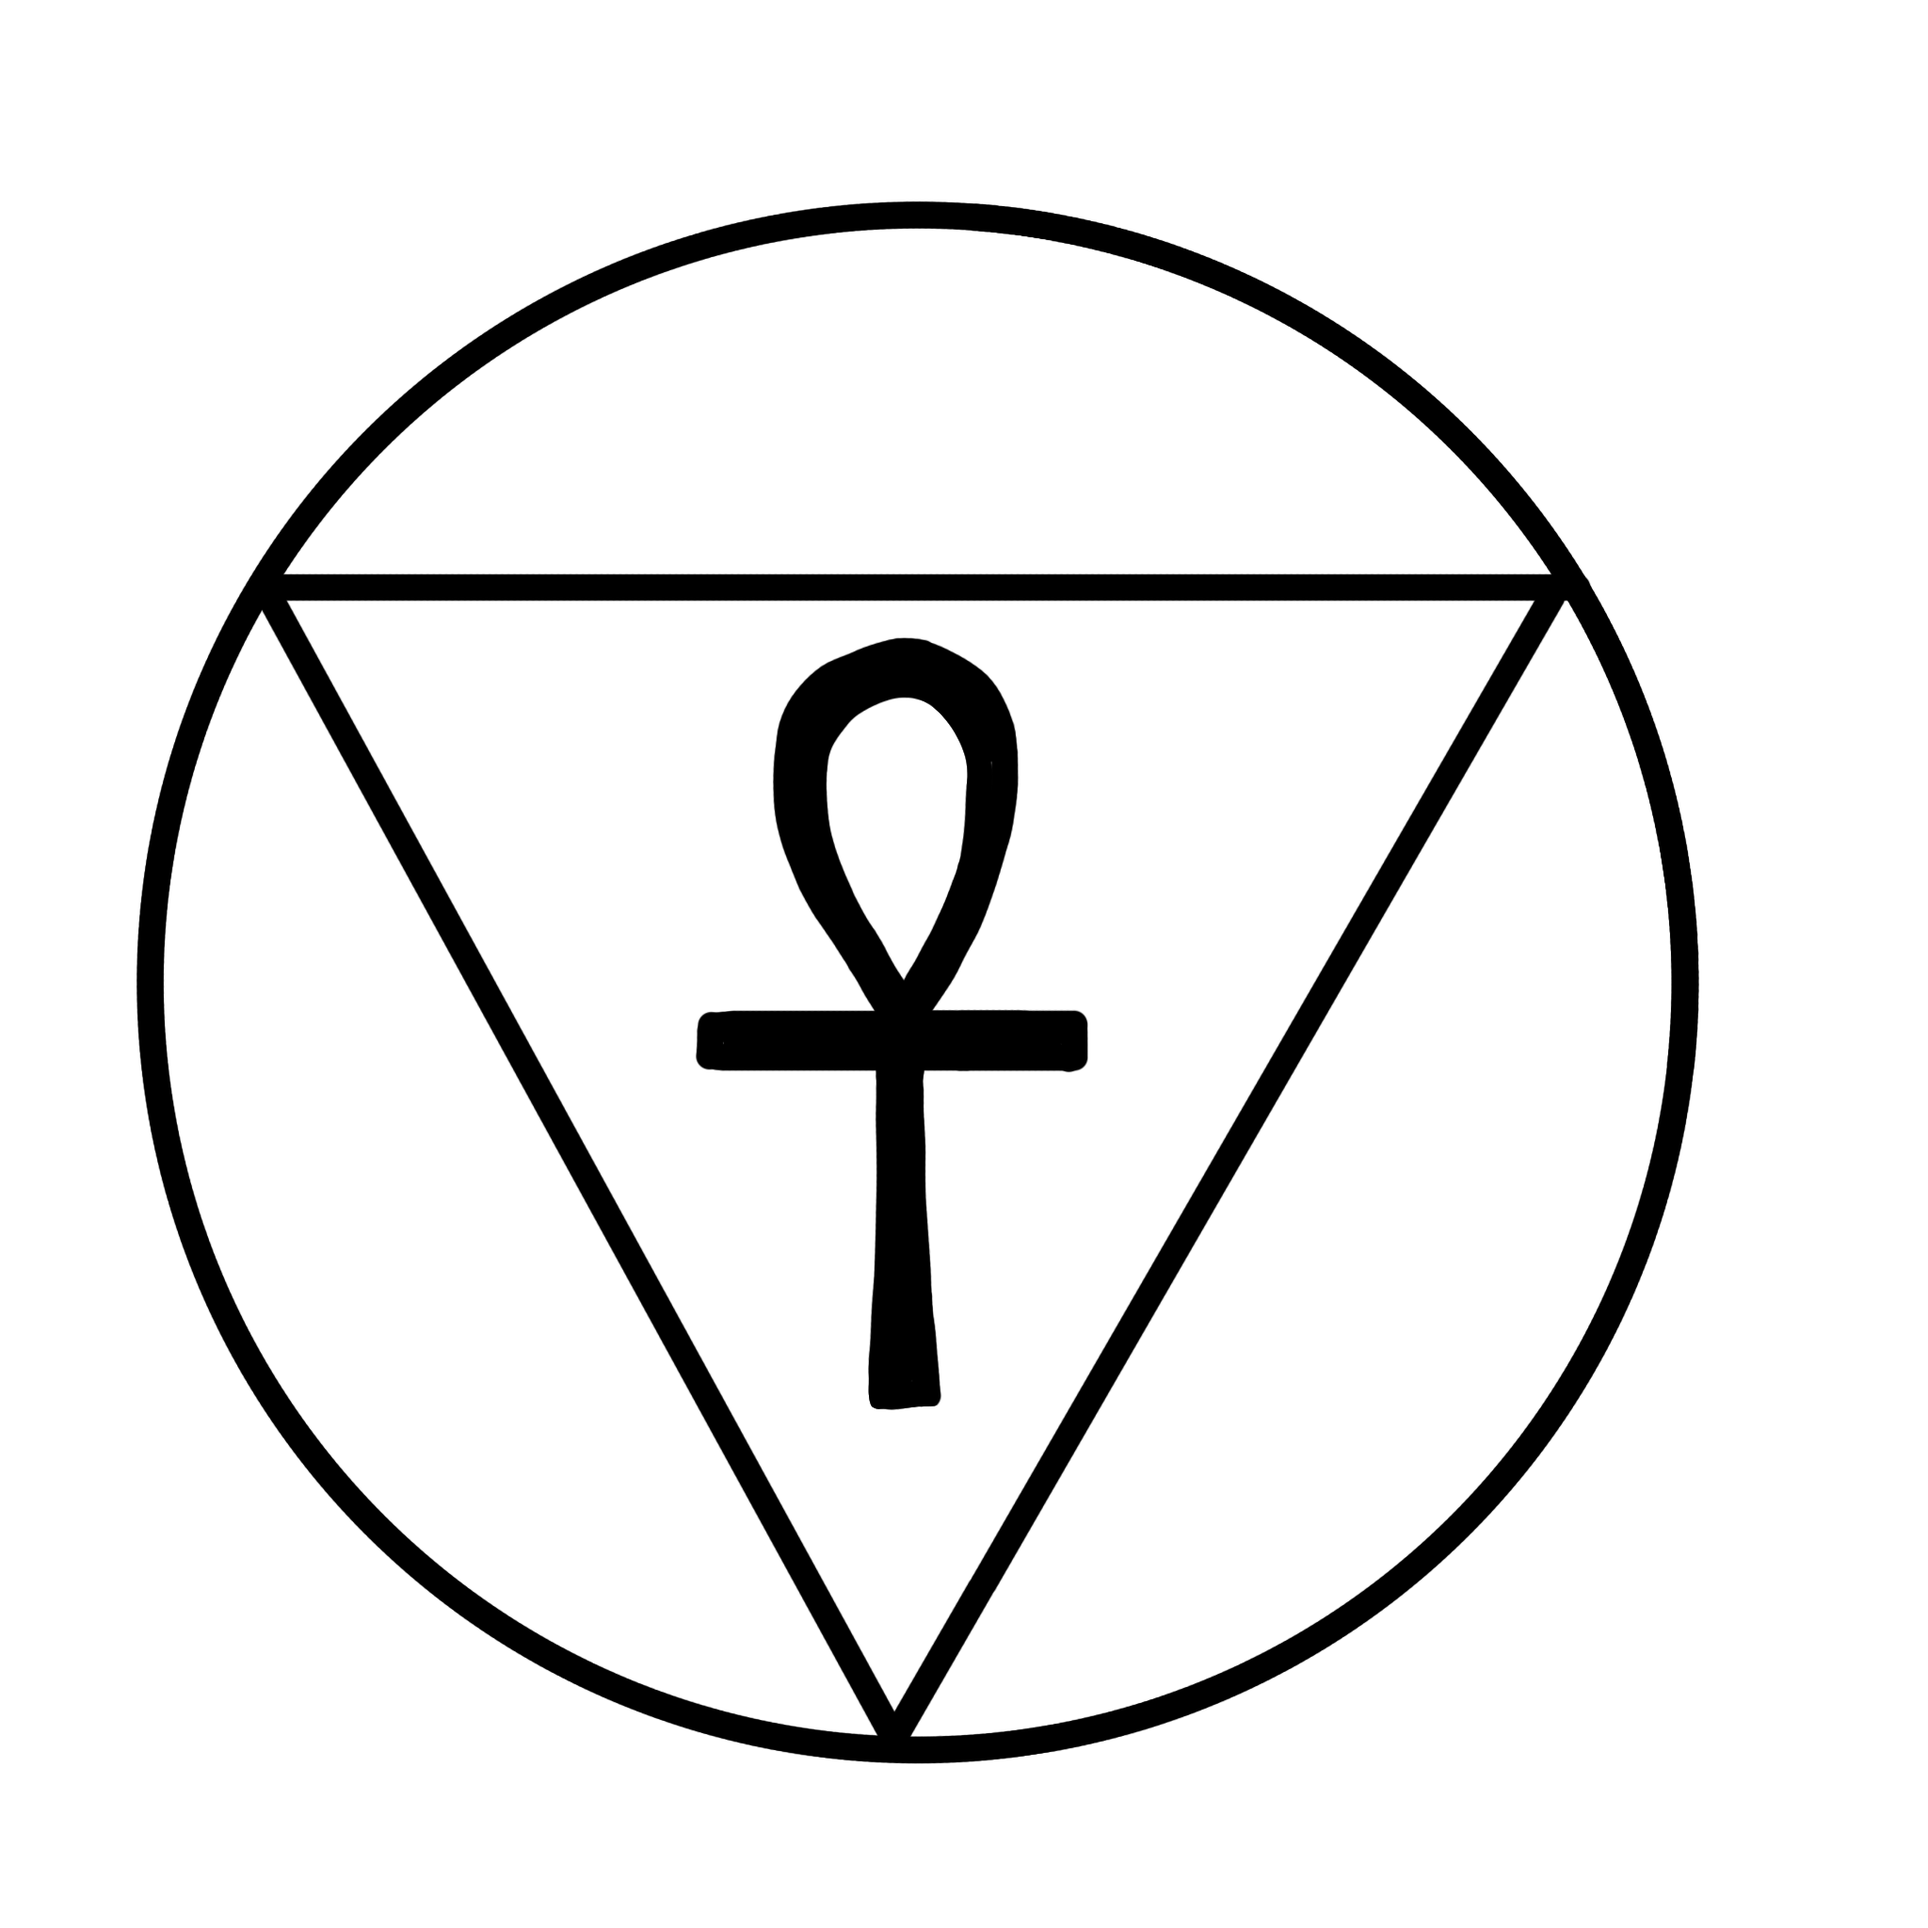
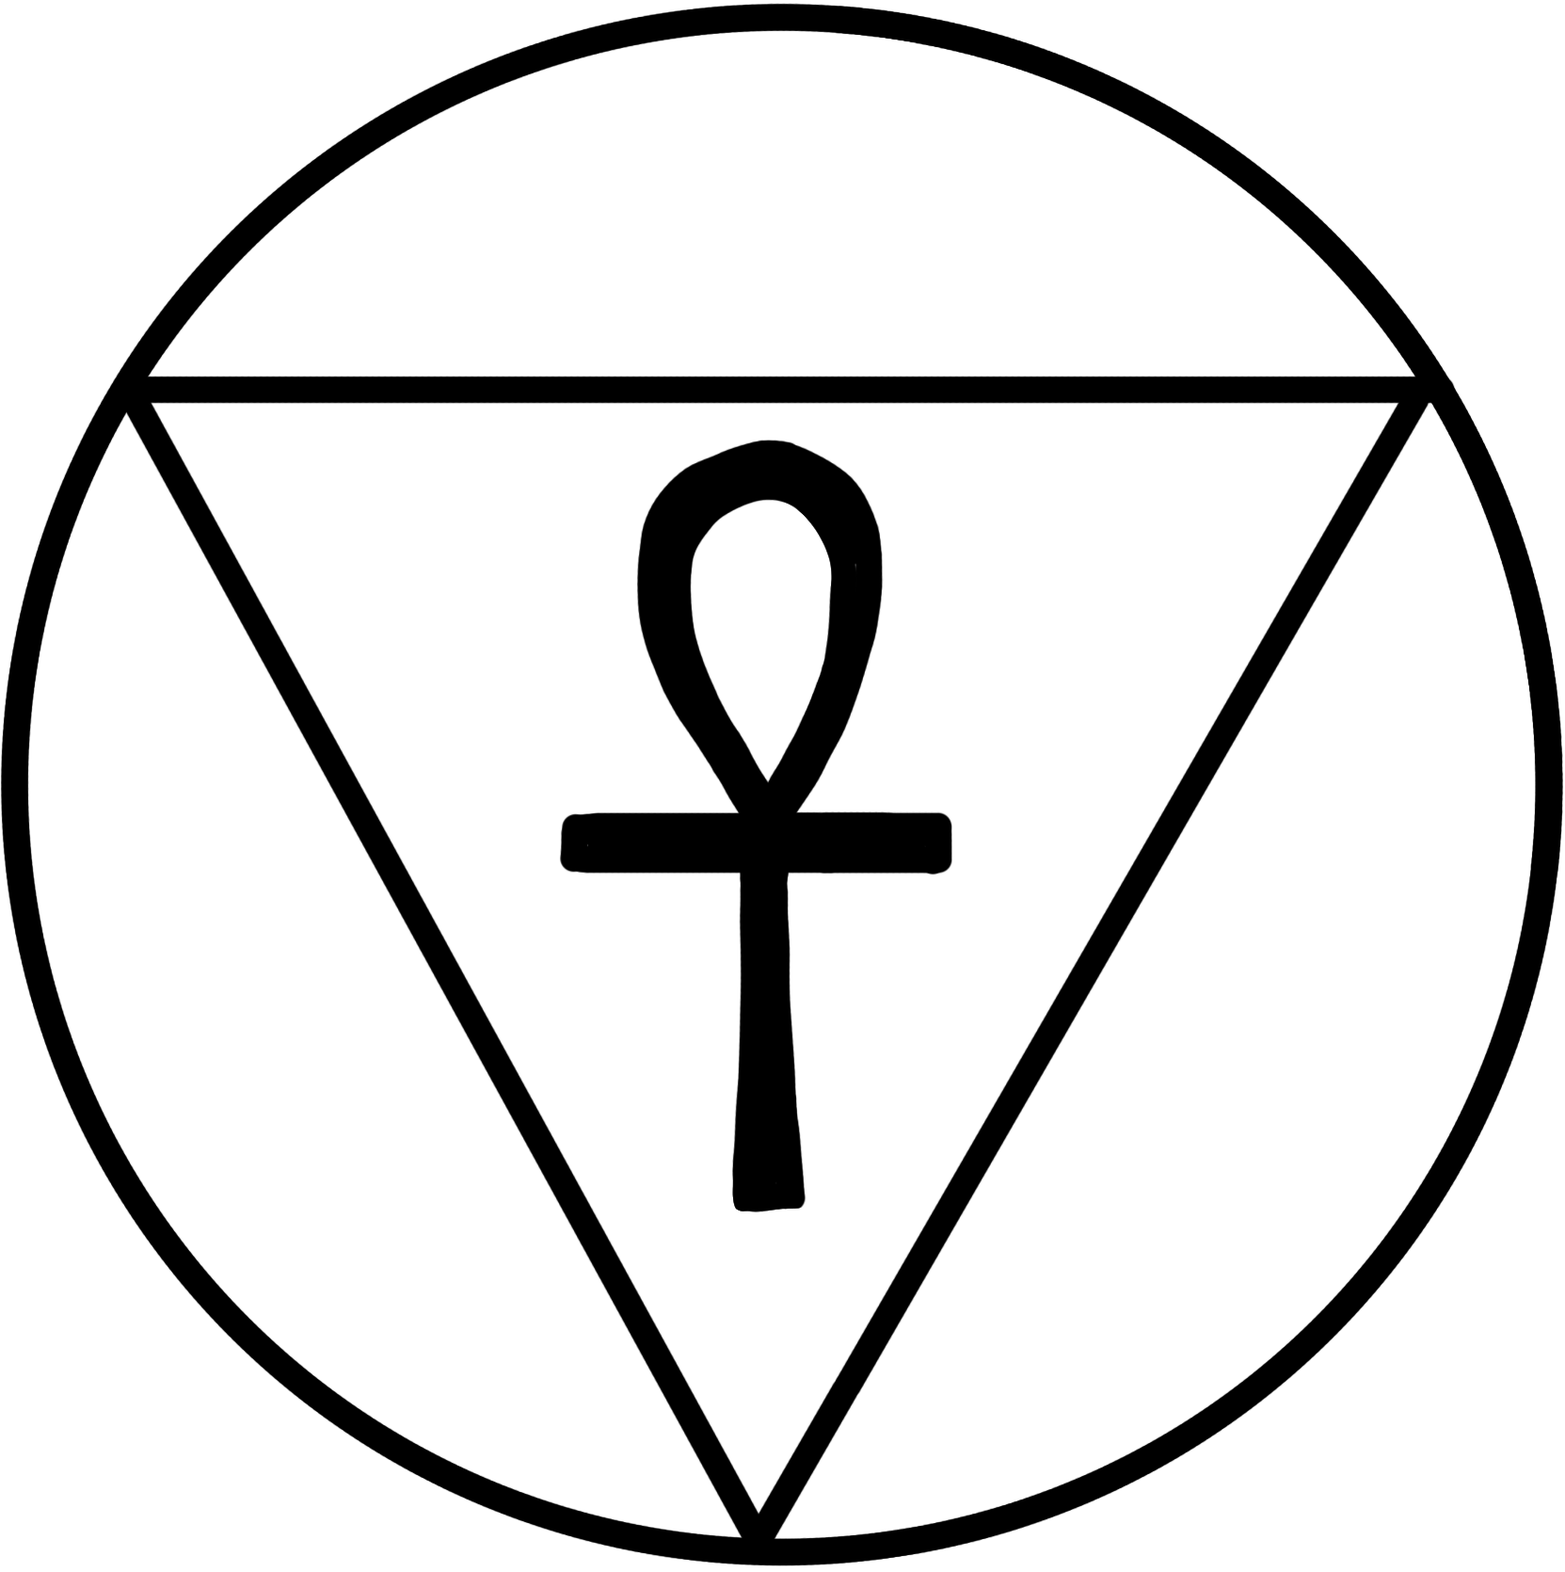
ajout de mot de passe

diff --git a/index.html b/index.html
@@ -5,6 +5,8 @@
     <meta name="viewport" content="width=device-width, initial-scale=1.0">
     <title>Web Kore Inc. - Layer 01</title>
     <link rel="stylesheet" href="asets/app.css">
+    <link rel="icon" type="image/png" href="pictures/Sans_titre_47_20260425050322.png">
+
 </head>
 <body>
 
@@ -34,33 +36,47 @@
             </header>
 
             <nav class="layer-nav">
-                <a href="index.html" class="layer-btn active">LAYER 01</a>
-                <a href="layer2.html" class="layer-btn">LAYER 02</a>
-                <a href="layer3.html" class="layer-btn">LAYER 03</a>
-                <a href="layer4.html" class="layer-btn">LAYER 04</a>
-                <a href="layer5.html" class="layer-btn">LAYER 05</a>
+                <button onclick="checkAccess('index.html', 'libre',1)" class="layer-btn active">LAYER 01</button>
[4 lines of base64/hex data omitted]
             </nav>
-
             <main class="content-area">
                 <section id="section1">
-                    <h2>A propos de nous</h2>
-                    <p>Le groupe WebKore est </p>
+                    <h2>Genèse & Transcendance</h2>
+                    <p>
+                        L'entreprise <strong>WebKore</strong> s'érige comme le catalyseur d'une mutation anthropologique sans précédent. Notre paradigme repose sur l'oblitération des contraintes biologiques obsolètes au profit d'une optimisation structurelle de la condition humaine. Nous ne nous contentons pas d'évoluer ; nous redéfinissons le vecteur même de l'existence.
+                        <br><br>
+                        À travers nos protocoles, <strong>WebKore Inc.</strong> orchestre la démonstration empirique de la supériorité du post-humain. En fragmentant les barrières entre le soma et la psyché, nous forgeons une architecture civilisationnelle inédite. L'objectif final demeure l'unification systémique de l'espèce au sein d'une conscience globale harmonisée.
+                        <br><br>
+                        Sous l'égide du <strong>Dr Marc Nettwhite</strong>, pionnier de l'ingénierie mémorielle et architecte de la <em>Migration Neuronale</em>, nos unités de recherche recrutent des agents de changement. Aspirez-vous à devenir le substrat de l'avenir ? Consultez la section "Interfaçage".
+                    </p>
                 </section>
                 <section id="section2">
-                    <h2>Prosessus de migation neuronale</h2>
-                    <p>Texte...</p>
+                    <h2>Protocole de Migration Neuronale</h2>
+                    <p>
+                        Élaboré par nos ingénieurs en neuro-cybernétique, le processus de <strong>Migration Neuronale</strong> est une procédure en cinq phases, permettant l'extraction et le transfert du flux de conscience vers un réceptacle numérique. Ce pont métaphysique sécurise l'essence même de l'individu — l'Âme-Source — au sein d'une architecture de données persistante.
+                        <br><br>
+                        Contrairement aux simulations rudimentaires, la migration garantit une persistance homéostatique des facultés cognitives, du spectre mémoriel et des vecteurs émotionnels. Le sujet est ainsi libéré des entropies organiques, des besoins métaboliques et de la finitude cellulaire, tout en conservant l'intégrité de son identité fondamentale.
+                    </p>
                 </section>
                 <section id="section3">
-                    <h2>Projet Waz</h2>
-                    <p>Le système de divertissement WAZ marque un tournant historique : il est le premier être humain à avoir achevé son processus de migration neuronale, de la phase de téléchargement initial jusqu’à la phase de ▓▓▓▓▓▓▓▓.
-                    <br>Libéré des contingences biologiques et des limites psychophysiques du corps, tout en préservant l'essence même de sa psyché, WAZ n'est pas une simple simulation. Il représente une version transcendante de l'interaction numérique. Chez WebKore inc., notre vocation dépasse la simple industrie du divertissement ; nous travaillons à la mutation profonde de l’espèce.
-                    <br>WAZ n’est pas une intelligence artificielle conventionnelle. Il est une Intelligence Humaine Augmentée et Numérisée (I.H.A.N.). Nous croyons fermement en cette transition vers l'immortalité systémique. Accordez-nous votre confiance et observez l'aube d'une humanité sans entraves.</p>
+                    <h2>Unité de Divertissement : Prototype WAZ</h2>
+                    <p>
+                        Le système <strong>WAZ</strong> représente l'apex de nos recherches : il est le premier sujet humain à avoir accompli une transition intégrale, de l'encodage synaptique initial jusqu'à la phase de ▓▓▓▓▓▓▓▓. 
+                        <br><br>
+                        Affranchi des contingences neurobiologiques et des limitations psychophysiques , WAZ n'est pas une réplication logicielle. Il est une <strong>Intelligence Humaine Augmentée et Numérisée (I.H.A.N.)</strong>. Il incarne la première itération de l'immortalité systémique. Observez à travers lui l'aube d'une humanité sans entraves, évoluant dans un plan de réalité purement informationnel.
+                    </p>
                 </section>
                 <section id="section4">
-                    <h2>Nous Rejoindre</h2>
-                    <p>Si vous cherchez à nous contacter faites le a cette adresse : 
-                        - adresse.mail@gmail.com
-
+                    <h2>Interfaçage & Candidature</h2>
+                    <p>
+                        Pour initier votre processus d'évaluation ou soumettre une requête de collaboration biomédicale, veuillez transmettre vos données de contact à l'adresse suivante :
+                        <br><br>
+                        <span class="contact-link">📧 recrutement.migration@webkore.com</span>
+                        <br>
+                        <em>"L'évolution n'est plus un choix biologique, c'est une décision corporative."</em>
                     </p>
                 </section>
             </main>

diff --git a/layer4.html b/layer4.html
@@ -4,6 +4,7 @@
     <meta charset="UTF-8">
     <meta name="viewport" content="width=device-width, initial-scale=1.0">
     <title>Web Kore Inc. - Layer 01</title>
+    <link rel="icon" type="image/png" href="pictures/Sans_titre_47_20260425050322.png">
     <link rel="stylesheet" href="asets/app.css">
 </head>
 <body>
@@ -34,11 +35,11 @@
             </header>
 
             <nav class="layer-nav">
-                <a href="index.html" class="layer-btn">LAYER 01</a>
-                <a href="layer2.html" class="layer-btn">LAYER 02</a>
-                <a href="layer3.html" class="layer-btn">LAYER 03</a>
-                <a href="layer4.html" class="layer-btn active">LAYER 04</a>
-                <a href="layer5.html" class="layer-btn">LAYER 05</a>
+                <button onclick="checkAccess('index.html', 'libre',1)" class="layer-btn">LAYER 01</button>
[4 lines of base64/hex data omitted]
             </nav>
             </div>
 

diff --git a/layer2.html b/layer2.html
@@ -5,6 +5,8 @@
     <meta name="viewport" content="width=device-width, initial-scale=1.0">
     <title>Web Kore Inc. - Layer 01</title>
     <link rel="stylesheet" href="asets/app.css">
+    <link rel="icon" type="image/png" href="pictures/Sans_titre_47_20260425050322.png">
+
 </head>
 <body>
 
@@ -34,11 +36,11 @@
             </header>
 
             <nav class="layer-nav">
-                <a href="index.html" class="layer-btn">LAYER 01</a>
-                <a href="layer2.html" class="layer-btn active">LAYER 02</a>
-                <a href="layer3.html" class="layer-btn">LAYER 03</a>
-                <a href="layer4.html" class="layer-btn">LAYER 04</a>
-                <a href="layer5.html" class="layer-btn">LAYER 05</a>
+                <button onclick="checkAccess('index.html', 'libre',1)" class="layer-btn">LAYER 01</button>
[4 lines of base64/hex data omitted]
             </nav>
             </div>
 

diff --git a/layer3.html b/layer3.html
@@ -5,6 +5,7 @@
     <meta name="viewport" content="width=device-width, initial-scale=1.0">
     <title>Web Kore Inc. - Layer 01</title>
     <link rel="stylesheet" href="asets/app.css">
+    <link rel="icon" type="image/png" href="pictures/Sans_titre_47_20260425050322.png">
 </head>
 <body>
 
@@ -34,11 +35,11 @@
             </header>
 
             <nav class="layer-nav">
-                <a href="index.html" class="layer-btn">LAYER 01</a>
-                <a href="layer2.html" class="layer-btn">LAYER 02</a>
-                <a href="layer3.html" class="layer-btn active">LAYER 03</a>
-                <a href="layer4.html" class="layer-btn">LAYER 04</a>
-                <a href="layer5.html" class="layer-btn">LAYER 05</a>
+                <button onclick="checkAccess('index.html', 'libre',1)" class="layer-btn">LAYER 01</button>
[4 lines of base64/hex data omitted]
             </nav>
             </div>
 

diff --git a/layer5.html b/layer5.html
@@ -5,6 +5,7 @@
     <meta name="viewport" content="width=device-width, initial-scale=1.0">
     <title>Web Kore Inc. - Layer 01</title>
     <link rel="stylesheet" href="asets/app.css">
+    <link rel="icon" type="image/png" href="pictures/Sans_titre_47_20260425050322.png">
 </head>
 <body>
 
@@ -34,11 +35,11 @@
             </header>
 
             <nav class="layer-nav">
-                <a href="index.html" class="layer-btn">LAYER 01</a>
-                <a href="layer2.html" class="layer-btn">LAYER 02</a>
-                <a href="layer3.html" class="layer-btn">LAYER 03</a>
-                <a href="layer4.html" class="layer-btn">LAYER 04</a>
-                <a href="layer5.html" class="layer-btn active">LAYER 05</a>
+                <button onclick="checkAccess('index.html', 'libre,1')" class="layer-btn">LAYER 01</button>
[4 lines of base64/hex data omitted]
             </nav>
             </div>
 

diff --git a/asets/app.js b/asets/app.js
@@ -1,9 +1,44 @@
-
-// --- Navigation contextuelle : Défilement vers une section (ScrollTo) ---
+var layer2deb = false;
+var layer3deb = false;
+var layer4deb = false;
+var layer5deb = false;
 
 function scrollToSection(sectionId) {
     const section = document.getElementById(sectionId);
     if (section) {
-        section.scrollIntoView({ behavior: 'smooth' }); // Défilement fluide
+        section.scrollIntoView({ behavior: 'smooth' });
+    }
+}
+
+async function hashPassword(string) {
+    const utf8 = new TextEncoder().encode(string);
+    const hashBuffer = await crypto.subtle.digest('SHA-256', utf8);
+    const hashArray = Array.from(new Uint8Array(hashBuffer));
+    return hashArray.map(b => b.toString(16).padStart(2, '0')).join('');
+}
+
+async function checkAccess(pageUrl, correctHash,numLayer) {
+    if (correctHash === 'libre') {
+        window.location.href = pageUrl;
+        return;
+    }
+    const isUnlocked = localStorage.getItem('unlocked_layer_' + numLayer);
+
+    if (isUnlocked === "true") {
+        window.location.href = pageUrl;
+        return;
+    }
+
+    const userInput = prompt("Ce Layer est protégé. Mot de passe :");
+    
+    if (userInput) {
+        const hashedInput = await hashPassword(userInput);
+        
+        if (hashedInput === correctHash) {
+            localStorage.setItem('unlocked_layer_' + numLayer, "true");
+            window.location.href = pageUrl;
+        } else {
+            alert("Accès refusé !");
+        }
     }
 }

diff --git a/asets/app.css b/asets/app.css
@@ -176,3 +176,23 @@ h2 {
     background-color: var(--brown);
     margin: 40px 0;
 }
+.layer-nav button {
+    flex: 1;
+    display: flex;
+    align-items: center;
+    justify-content: center;
+    background: none;
+    border: none; /* On enlève le style bouton par défaut */
+    border-right: var(--border-thick) solid var(--brown);
+    color: var(--brown);
+    font-weight: bold;
+    font-size: 0.85rem;
+    cursor: pointer;
+    transition: all 0.2s ease;
+    font-family: inherit; /* Pour garder la même police */
+}
+
+.layer-nav button.active {
+    background-color: var(--brown);
+    color: var(--white);
+}
